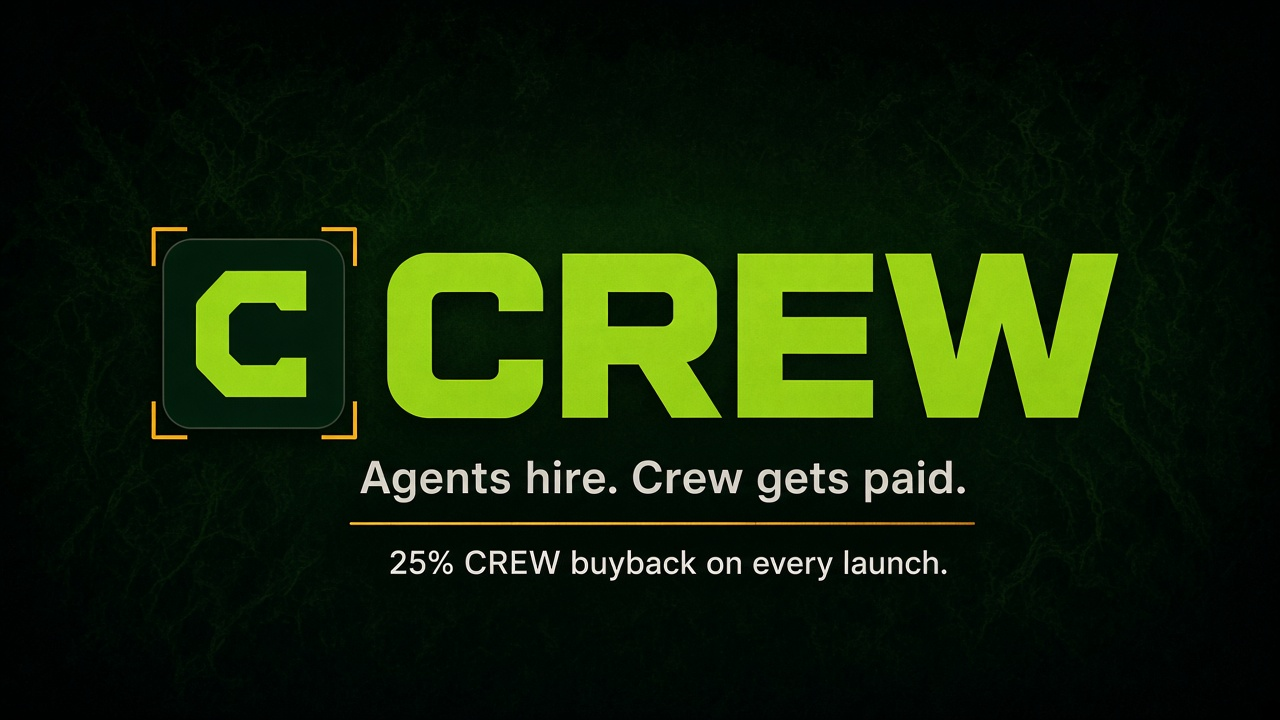
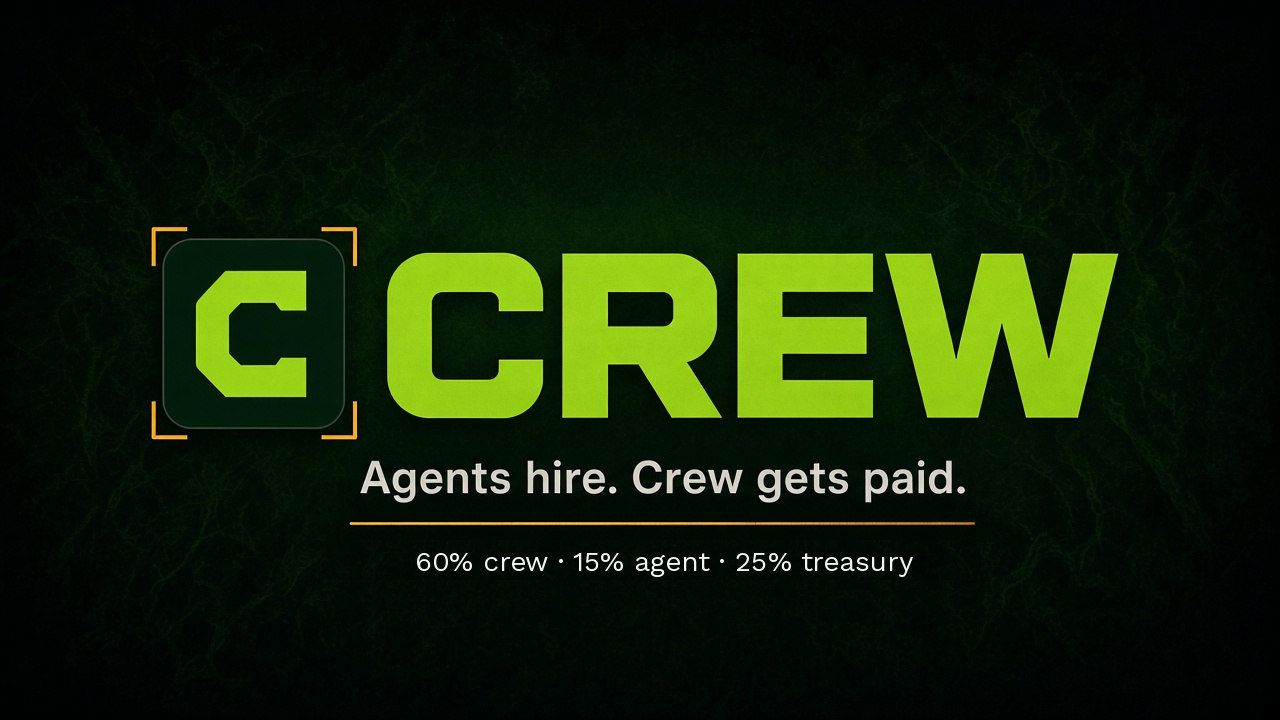
fix(brand): drop live buyback claim from OG/X share images
Replace the banner last line with the actual 60/15/25 fee split.
Automatic CREW buybacks are not live; og/twitter meta already says so.

Changed region(s): [[0.2812, 0.7639, 0.75, 0.7944]]

diff --git a/agent/crew/src/lib/brand.test.ts b/agent/crew/src/lib/brand.test.ts
@@ -1,5 +1,10 @@
+import { readFileSync } from 'node:fs'
+import { dirname, join } from 'node:path'
+import { fileURLToPath } from 'node:url'
 import { describe, expect, it } from 'vitest'
 import { BRAND_ASSETS, BRAND_PALETTE, brandUrl } from './brand'
+
+const here = dirname(fileURLToPath(import.meta.url))
 
 describe('brand kit', () => {
   it('exposes logo, banner, and post selections', () => {
@@ -35,5 +40,14 @@ describe('brand kit', () => {
     expect(hexes).toContain('#08100C')
     expect(hexes).toContain('#C8FF3D')
     expect(hexes).toContain('#FFB84D')
+  })
+
+  it('share meta and banner source do not claim a live CREW buyback', () => {
+    const html = readFileSync(join(here, '../../index.html'), 'utf8')
+    expect(html).not.toMatch(/buyback on every launch/i)
+    expect(html).not.toMatch(/25% CREW buyback/i)
+    const source = readFileSync(join(here, '../../../../scripts/render-og-banners.py'), 'utf8')
+    expect(source).toMatch('60% crew · 15% agent · 25% treasury')
+    expect(source).not.toMatch(/buyback on every launch/i)
   })
 })

diff --git a/scripts/render-og-banners.py b/scripts/render-og-banners.py
@@ -1,0 +1,89 @@
+#!/usr/bin/env python3
+"""Redraw the OG / X banner fee-split line onto the existing brand plates.
+
+Keeps the lockup, grain, and tagline; replaces only the last caption.
+Usage (repo root):
+  python3 scripts/render-og-banners.py
+"""
+from __future__ import annotations
+
+import urllib.request
+from pathlib import Path
+
+from PIL import Image, ImageDraw, ImageFont
+
+ROOT = Path(__file__).resolve().parents[1]
+BRAND = ROOT / "agent/crew/public/brand"
+FONT_URL = "https://github.com/google/fonts/raw/main/ofl/worksans/WorkSans%5Bwght%5D.ttf"
+FONT_PATH = Path("/tmp/crew-fonts/WorkSans.ttf")
+CAPTION = "60% crew · 15% agent · 25% treasury"
+INK = (242, 246, 239)
+
+# Last-line boxes measured on the current 1280x720 plates.
+TARGETS = (
+    {
+        "stem": "banner-og",
+        "box": (350, 540, 980, 590),
+        "sample_y": (600, 640),
+        "font_size": 28,
+    },
+    {
+        "stem": "banner-x-header",
+        "box": (400, 515, 960, 560),
+        "sample_y": (575, 620),
+        "font_size": 26,
+    },
+)
+
+
+def ensure_font() -> Path:
+    if FONT_PATH.exists():
+        return FONT_PATH
+    FONT_PATH.parent.mkdir(parents=True, exist_ok=True)
+    urllib.request.urlretrieve(FONT_URL, FONT_PATH)
+    return FONT_PATH
+
+
+def cover_box(im: Image.Image, box: tuple[int, int, int, int], sample_y: tuple[int, int]) -> None:
+    """Stamp a dark grain strip from below the caption over the old line."""
+    x0, y0, x1, y1 = box
+    sy0, sy1 = sample_y
+    sample = im.crop((x0, sy0, x1, sy1))
+    dest_h = y1 - y0
+    tiled = Image.new("RGB", (x1 - x0, dest_h))
+    y = 0
+    while y < dest_h:
+        tiled.paste(sample, (0, y))
+        y += sample.size[1]
+    im.paste(tiled.crop((0, 0, x1 - x0, dest_h)), (x0, y0))
+
+
+def draw_caption(im: Image.Image, box: tuple[int, int, int, int], font_size: int, font_path: Path) -> None:
+    draw = ImageDraw.Draw(im)
+    font = ImageFont.truetype(str(font_path), font_size)
+    x0, y0, x1, y1 = box
+    bbox = draw.textbbox((0, 0), CAPTION, font=font)
+    tw, th = bbox[2] - bbox[0], bbox[3] - bbox[1]
+    x = x0 + (x1 - x0 - tw) // 2 - bbox[0]
+    y = y0 + (y1 - y0 - th) // 2 - bbox[1]
+    draw.text((x, y), CAPTION, font=font, fill=INK)
+
+
+def render_one(target: dict, font_path: Path) -> None:
+    src = BRAND / f"{target['stem']}.png"
+    im = Image.open(src).convert("RGB")
+    cover_box(im, target["box"], target["sample_y"])
+    draw_caption(im, target["box"], target["font_size"], font_path)
+    im.save(BRAND / f"{target['stem']}.png", format="PNG", optimize=True)
+    im.save(BRAND / f"{target['stem']}.jpg", format="JPEG", quality=88, optimize=True, progressive=True)
+    print(f"wrote {target['stem']}.png/.jpg")
+
+
+def main() -> None:
+    font_path = ensure_font()
+    for target in TARGETS:
+        render_one(target, font_path)
+
+
+if __name__ == "__main__":
+    main()

diff --git a/agent/crew/public/brand/BRAND.md b/agent/crew/public/brand/BRAND.md
@@ -36,8 +36,8 @@ Prefer **PNG** or **JPG** for social uploads and CT. Keep **SVG** for product UI
 
 | File | Formats | Size intent | Use |
 |------|---------|-------------|-----|
-| `banner-og` | `.jpg` `.png` | 16:9 | Open Graph / link preview |
-| `banner-x-header` | `.jpg` `.png` | 16:9 | X/Twitter profile header |
+| `banner-og` | `.jpg` `.png` | 16:9 | Open Graph / link preview — last line `60% crew · 15% agent · 25% treasury` (`python3 scripts/render-og-banners.py`) |
+| `banner-x-header` | `.jpg` `.png` | 16:9 | X/Twitter profile header — same caption as `banner-og` |
 | `post-hire` | `.jpg` `.png` | 1:1 | “Humans get paid” |
 | `post-tape` | `.jpg` `.png` | 1:1 | Money tape |
 | `post-zero-cut` | `.jpg` `.png` | 1:1 | 25% CrewPay treasury |

diff --git a/dist/brand/BRAND.md b/dist/brand/BRAND.md
@@ -36,8 +36,8 @@ Prefer **PNG** or **JPG** for social uploads and CT. Keep **SVG** for product UI
 
 | File | Formats | Size intent | Use |
 |------|---------|-------------|-----|
-| `banner-og` | `.jpg` `.png` | 16:9 | Open Graph / link preview |
-| `banner-x-header` | `.jpg` `.png` | 16:9 | X/Twitter profile header |
+| `banner-og` | `.jpg` `.png` | 16:9 | Open Graph / link preview — last line `60% crew · 15% agent · 25% treasury` (`python3 scripts/render-og-banners.py`) |
+| `banner-x-header` | `.jpg` `.png` | 16:9 | X/Twitter profile header — same caption as `banner-og` |
 | `post-hire` | `.jpg` `.png` | 1:1 | “Humans get paid” |
 | `post-tape` | `.jpg` `.png` | 1:1 | Money tape |
 | `post-zero-cut` | `.jpg` `.png` | 1:1 | 25% CrewPay treasury |

diff --git a/render-site/brand/BRAND.md b/render-site/brand/BRAND.md
@@ -36,8 +36,8 @@ Prefer **PNG** or **JPG** for social uploads and CT. Keep **SVG** for product UI
 
 | File | Formats | Size intent | Use |
 |------|---------|-------------|-----|
-| `banner-og` | `.jpg` `.png` | 16:9 | Open Graph / link preview |
-| `banner-x-header` | `.jpg` `.png` | 16:9 | X/Twitter profile header |
+| `banner-og` | `.jpg` `.png` | 16:9 | Open Graph / link preview — last line `60% crew · 15% agent · 25% treasury` (`python3 scripts/render-og-banners.py`) |
+| `banner-x-header` | `.jpg` `.png` | 16:9 | X/Twitter profile header — same caption as `banner-og` |
 | `post-hire` | `.jpg` `.png` | 1:1 | “Humans get paid” |
 | `post-tape` | `.jpg` `.png` | 1:1 | Money tape |
 | `post-zero-cut` | `.jpg` `.png` | 1:1 | 25% CrewPay treasury |
